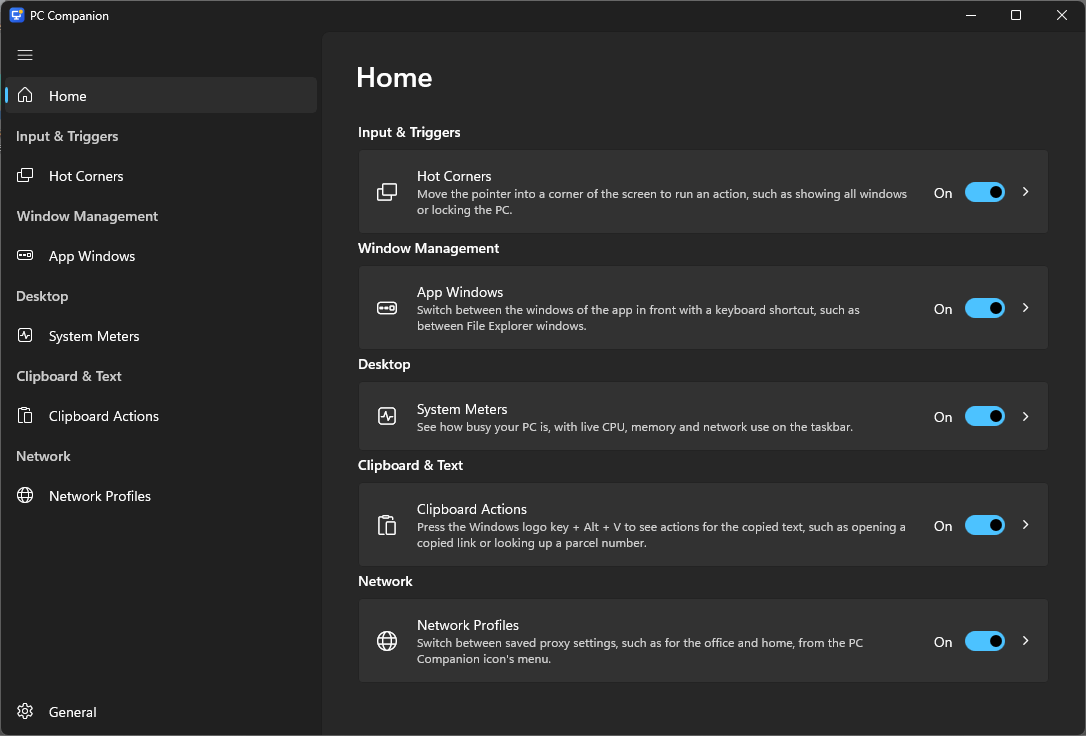
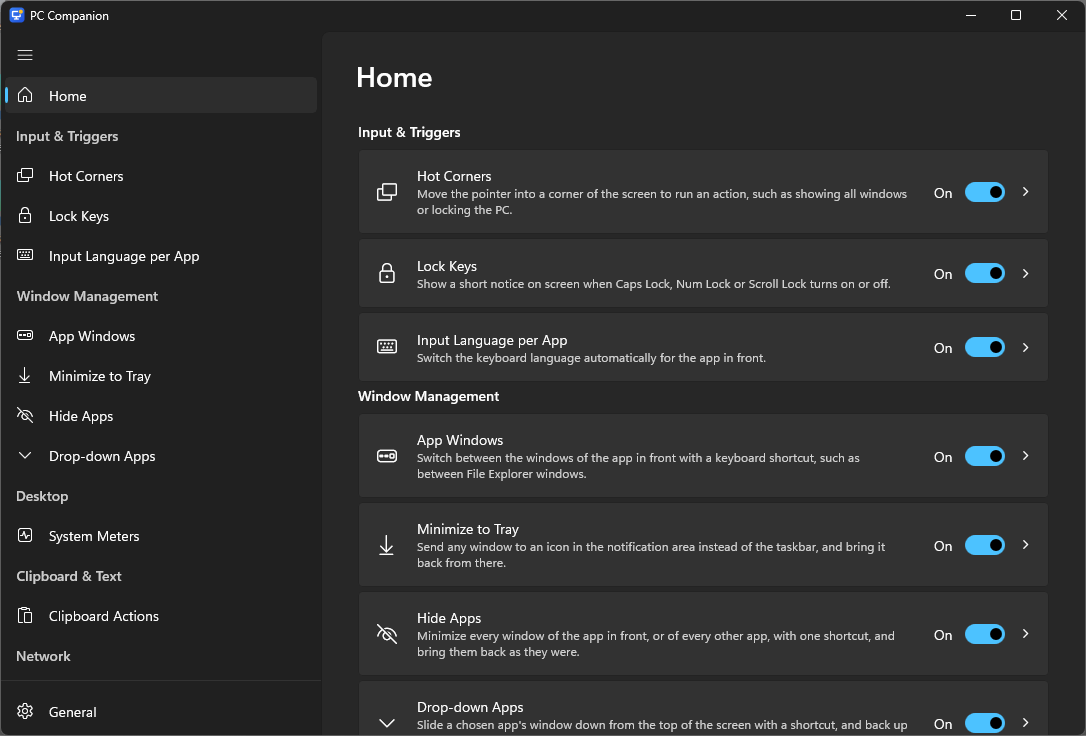
docs(website): describe the 0.4.0 features, with their screenshots
The site describes the 0.4.0 release: rows for Lock Keys, Input Language per App, Minimize to Tray, Hide Apps, Drop-down Apps, Folder Rules and Display Profiles, in the order of the settings app's navigation pane, so some of the earlier rows swap sides, and the privacy card says the features' history is kept with the settings. Home's screenshots are taken again, since its window shows the longer pane, along with the new pages', from the release's installer; the other pages' are unchanged and stay as they are. Display Profiles' screenshots come from a PC with two displays, with three profiles made from them, since the Sandbox shows the page as unavailable, and the website doc says so.

diff --git a/website/index.html b/website/index.html
@@ -107,6 +107,42 @@
           </div>
         </article>
 
+        <article class="feature feature-reverse" aria-labelledby="lock-keys-title">
+          <div class="feature-text">
+            <p class="eyebrow">Input &amp; Triggers</p>
+            <h3 id="lock-keys-title">Lock Keys</h3>
+            <p>See a short notice on screen when <kbd>Caps Lock</kbd>, <kbd>Num Lock</kbd> or <kbd>Scroll Lock</kbd> turns on or off, such as "Caps Lock on", on the display you're typing on. Inspired by the lock key notices of KDE Plasma and ChromeOS, and by the Caps Lock indicator of macOS.</p>
+            <ul class="points">
+              <li>Choose the keys, whether a key turning off shows too, where the notice shows and for how long.</li>
+              <li><strong>Keep showing while Caps Lock is on</strong> keeps a small badge on screen that follows the window in front.</li>
+              <li>Stays out of full-screen apps, follows the display's scale, your light or dark mode and high contrast, and never takes the focus.</li>
+              <li>No keyboard hook: PC Companion reads only whether the keys are on, never the keys you type.</li>
+            </ul>
+          </div>
+          <div class="shot">
+            <img class="shot-light" src="images/lock-keys-light.png" width="763" height="678" loading="lazy" alt="The Lock Keys page, with Caps Lock and Num Lock chosen, the notice's position and how long it shows.">
+            <img class="shot-dark" src="images/lock-keys-dark.png" width="763" height="678" loading="lazy" alt="The Lock Keys page, with Caps Lock and Num Lock chosen, the notice's position and how long it shows.">
+          </div>
+        </article>
+
+        <article class="feature" aria-labelledby="input-language-title">
+          <div class="feature-text">
+            <p class="eyebrow">Input &amp; Triggers</p>
+            <h3 id="input-language-title">Input Language per App</h3>
+            <p>The keyboard language switches by itself for the app in front, such as German in your browser and English in PowerShell. Inspired by the keyboard layout policies of KDE Plasma and the per-app input source tools of macOS.</p>
+            <ul class="points">
+              <li>Give the apps you choose an input method from your language list.</li>
+              <li>Every other app gets back the language it had when you left it, also after a restart. Or leave them the language in use, or give them all one language.</li>
+              <li>It switches only when an app comes to the front, so a language you choose by hand stays until you leave the app.</li>
+              <li>A short notice shows the new language. PC Companion never adds input methods or changes Windows' language settings.</li>
+            </ul>
+          </div>
+          <div class="shot">
+            <img class="shot-light" src="images/input-language-per-app-light.png" width="763" height="708" loading="lazy" alt="The Input Language per App page, with German for Microsoft Edge, English for Windows PowerShell, and other apps remembering their language.">
+            <img class="shot-dark" src="images/input-language-per-app-dark.png" width="763" height="708" loading="lazy" alt="The Input Language per App page, with German for Microsoft Edge, English for Windows PowerShell, and other apps remembering their language.">
+          </div>
+        </article>
+
         <article class="feature feature-reverse" aria-labelledby="app-windows-title">
           <div class="feature-text">
             <p class="eyebrow">Window Management</p>
@@ -125,7 +161,61 @@
           </div>
         </article>
 
-        <article class="feature" aria-labelledby="system-meters-title">
+        <article class="feature" aria-labelledby="minimize-to-tray-title">
+          <div class="feature-text">
+            <p class="eyebrow">Window Management</p>
+            <h3 id="minimize-to-tray-title">Minimize to Tray</h3>
+            <p>Send any app's window to an icon in the notification area instead of the taskbar, and bring it back from there. Inspired by tools for Linux desktops that dock any window in the tray, and by Hide in macOS.</p>
+            <ul class="points">
+              <li>Press <kbd>Windows</kbd> + <kbd>Shift</kbd> + <kbd>Z</kbd>, or hold <kbd>Shift</kbd> as you select a window's Minimize button.</li>
+              <li>List apps whose windows go to the tray whenever they're minimized, such as Task Manager or a chat app.</li>
+              <li>Each app gets one icon: select it to bring back the window, or open its menu to choose a window or bring them all back.</li>
+              <li>No window is lost: turning the feature off, exiting, signing out and a crash bring every window back to the taskbar.</li>
+            </ul>
+          </div>
+          <div class="shot">
+            <img class="shot-light" src="images/minimize-to-tray-light.png" width="763" height="627" loading="lazy" alt="The Minimize to Tray page, with the shortcut, Shift + Minimize, and Task Manager among the apps that go to the tray when minimized.">
+            <img class="shot-dark" src="images/minimize-to-tray-dark.png" width="763" height="627" loading="lazy" alt="The Minimize to Tray page, with the shortcut, Shift + Minimize, and Task Manager among the apps that go to the tray when minimized.">
+          </div>
+        </article>
+
+        <article class="feature feature-reverse" aria-labelledby="hide-apps-title">
+          <div class="feature-text">
+            <p class="eyebrow">Window Management</p>
+            <h3 id="hide-apps-title">Hide Apps</h3>
+            <p>Put away every window of the app in front, or of every other app, with one shortcut, and bring them back as they were. Inspired by Hide, Hide Others and Show All in macOS.</p>
+            <ul class="points">
+              <li><kbd>Windows</kbd> + <kbd>Ctrl</kbd> + <kbd>H</kbd> hides the app in front, such as every File Explorer window.</li>
+              <li><kbd>Windows</kbd> + <kbd>Ctrl</kbd> + <kbd>Shift</kbd> + <kbd>H</kbd> hides every other app, optionally only on the display in front. Press it again to bring them back.</li>
+              <li>When one window comes back, the app's other windows come with it, in their order. <strong>Show all hidden windows</strong> in the PC Companion icon's menu brings back everything.</li>
+              <li>Windows are only minimized, so they keep their taskbar buttons and none is lost if PC Companion closes.</li>
+            </ul>
+          </div>
+          <div class="shot">
+            <img class="shot-light" src="images/hide-apps-light.png" width="763" height="643" loading="lazy" alt="The Hide Apps page, with the Hide app and Hide others shortcuts and their options.">
+            <img class="shot-dark" src="images/hide-apps-dark.png" width="763" height="643" loading="lazy" alt="The Hide Apps page, with the Hide app and Hide others shortcuts and their options.">
+          </div>
+        </article>
+
+        <article class="feature" aria-labelledby="drop-down-apps-title">
+          <div class="feature-text">
+            <p class="eyebrow">Window Management</p>
+            <h3 id="drop-down-apps-title">Drop-down Apps</h3>
+            <p>Press a shortcut to slide a chosen app's window down from the top of the screen, and again to slide it back up out of the way, as drop-down terminals do, for any app. Inspired by Yakuake and the i3 scratchpad.</p>
+            <ul class="points">
+              <li>Give each app its own shortcut: <kbd>Windows</kbd> + <kbd>Ctrl</kbd> or <kbd>Alt</kbd> with the key above <kbd>Tab</kbd>, or <kbd>Windows</kbd> + <kbd>Ctrl</kbd> + <kbd>Alt</kbd> + <kbd>1</kbd> to <kbd>9</kbd>.</li>
+              <li>Choose the display, the width and height, the slide, whether the window hides when another app comes to the front, and whether it stays on top.</li>
+              <li>When the app isn't running, the shortcut starts it. A window on another virtual desktop comes to the one you're on.</li>
+              <li>The window you were using gets the focus back, and hidden windows come back on the taskbar when the feature stops or PC Companion exits.</li>
+            </ul>
+          </div>
+          <div class="shot">
+            <img class="shot-light" src="images/drop-down-apps-light.png" width="763" height="692" loading="lazy" alt="The Drop-down Apps page, with a shortcut for Windows PowerShell and one for Microsoft Edge, and the display, width and height windows show at.">
+            <img class="shot-dark" src="images/drop-down-apps-dark.png" width="763" height="692" loading="lazy" alt="The Drop-down Apps page, with a shortcut for Windows PowerShell and one for Microsoft Edge, and the display, width and height windows show at.">
+          </div>
+        </article>
+
+        <article class="feature feature-reverse" aria-labelledby="system-meters-title">
           <div class="feature-text">
             <p class="eyebrow">Desktop</p>
             <h3 id="system-meters-title">System Meters</h3>
@@ -143,7 +233,7 @@
           </div>
         </article>
 
-        <article class="feature feature-reverse" aria-labelledby="clipboard-actions-title">
+        <article class="feature" aria-labelledby="clipboard-actions-title">
           <div class="feature-text">
             <p class="eyebrow">Clipboard &amp; Text</p>
             <h3 id="clipboard-actions-title">Clipboard Actions</h3>
@@ -161,7 +251,7 @@
           </div>
         </article>
 
-        <article class="feature" aria-labelledby="network-profiles-title">
+        <article class="feature feature-reverse" aria-labelledby="network-profiles-title">
           <div class="feature-text">
             <p class="eyebrow">Network</p>
             <h3 id="network-profiles-title">Network Profiles</h3>
@@ -179,7 +269,43 @@
           </div>
         </article>
 
-        <article class="feature feature-reverse" aria-labelledby="general-title">
+        <article class="feature" aria-labelledby="folder-rules-title">
+          <div class="feature-text">
+            <p class="eyebrow">Files</p>
+            <h3 id="folder-rules-title">Folder Rules</h3>
+            <p>Keep folders such as Downloads tidy: rules move, copy, rename or sort files as they arrive, or move them to the Recycle Bin. Inspired by Folder Actions in macOS and by folder automation on Linux.</p>
+            <ul class="points">
+              <li>A rule matches a file's name, type, size and date, and the site it was downloaded from.</li>
+              <li>Destinations and new names can use parts of the file, such as <code>Invoices\{year}</code> or <code>{date} {name}</code>.</li>
+              <li>See the files a rule would act on while you edit it, run it on the files already there, and undo what it did from the history.</li>
+              <li>Never replaces a file or deletes one for good, and waits until a download has finished.</li>
+            </ul>
+          </div>
+          <div class="shot">
+            <img class="shot-light" src="images/folder-rules-light.png" width="763" height="652" loading="lazy" alt="The Folder Rules page, with the Downloads folder and its rules for installers, invoices and photos.">
+            <img class="shot-dark" src="images/folder-rules-dark.png" width="763" height="652" loading="lazy" alt="The Folder Rules page, with the Downloads folder and its rules for installers, invoices and photos.">
+          </div>
+        </article>
+
+        <article class="feature feature-reverse" aria-labelledby="display-profiles-title">
+          <div class="feature-text">
+            <p class="eyebrow">Display</p>
+            <h3 id="display-profiles-title">Display Profiles</h3>
+            <p>Save display setups as profiles, such as Desk, TV and Presenting, and switch between them from the PC Companion icon's menu. Inspired by KDE Plasma and GNOME, which ask before keeping a display change, and by autorandr on Linux.</p>
+            <ul class="points">
+              <li>A profile sets which displays are on, the main display, the arrangement, and each display's resolution, refresh rate, orientation and HDR.</li>
+              <li>Make profiles from the setup you're using, so each one is a setup Windows accepted.</li>
+              <li>After a switch that could leave a display black, PC Companion asks whether to keep it, and goes back after 15 seconds without an answer.</li>
+              <li>Recognizes displays by their model and serial number, across restarts, driver updates and cable changes, and needs no admin rights.</li>
+            </ul>
+          </div>
+          <div class="shot">
+            <img class="shot-light" src="images/display-profiles-light.png" width="763" height="723" loading="lazy" alt="The Display Profiles page, with Desk, in use, One display and Presenting profiles for two displays, each with a picture of its arrangement and a line for each display.">
+            <img class="shot-dark" src="images/display-profiles-dark.png" width="763" height="723" loading="lazy" alt="The Display Profiles page, with Desk, in use, One display and Presenting profiles for two displays, each with a picture of its arrangement and a line for each display.">
+          </div>
+        </article>
+
+        <article class="feature" aria-labelledby="general-title">
           <div class="feature-text">
             <p class="eyebrow">General</p>
             <h3 id="general-title">Made to fit Windows</h3>
@@ -225,7 +351,7 @@
           </li>
           <li class="card">
             <h3>Stays on your PC</h3>
-            <p>Your settings and logs are kept in <code>%LOCALAPPDATA%\<wbr>PCCompanion</code>. Logs leave your PC only if you share them.</p>
+            <p>Your settings, logs and the features' history, such as Folder Rules' undo list, are kept in <code>%LOCALAPPDATA%\<wbr>PCCompanion</code>. Logs leave your PC only if you share them.</p>
           </li>
           <li class="card">
             <h3>One connection</h3>

diff --git a/docs/development/website.md b/docs/development/website.md
@@ -37,6 +37,7 @@ powershell -ExecutionPolicy Bypass -File scripts\website-screenshots.ps1 -Msi <f
 - Commit only the screenshots of new or changed pages: every version of an image stays in the repository's history. All of them are taken again from time to time, without `-Pages`, when the maintainer asks.
 - `scripts/sandbox/website-screenshots.ps1` runs inside the Sandbox and lists the pages and the settings they're taken with. When a release adds a feature, add its page there and turn the feature on, then add it to `index.html`, with each screenshot's width and height from the report.
 - A program in a rule must exist in the Sandbox, and not be one that PC Companion refuses, such as File Explorer; otherwise the page shows a warning.
+- Display Profiles' screenshot is taken on a PC with two displays instead: Windows Sandbox is a remote session, where the page says profiles aren't available and dims Use. It shows three profiles made from that PC's displays, Desk, One display and Presenting, with the same window size, crop and gray desktop, and without selecting Use. Its displays' model names show in it.
 - Needs the Windows Sandbox feature, and only one Sandbox can run at a time. Keep the Sandbox window visible until it closes: a minimized Sandbox draws nothing, so its screenshots come out blank.
 
 ## Rules
